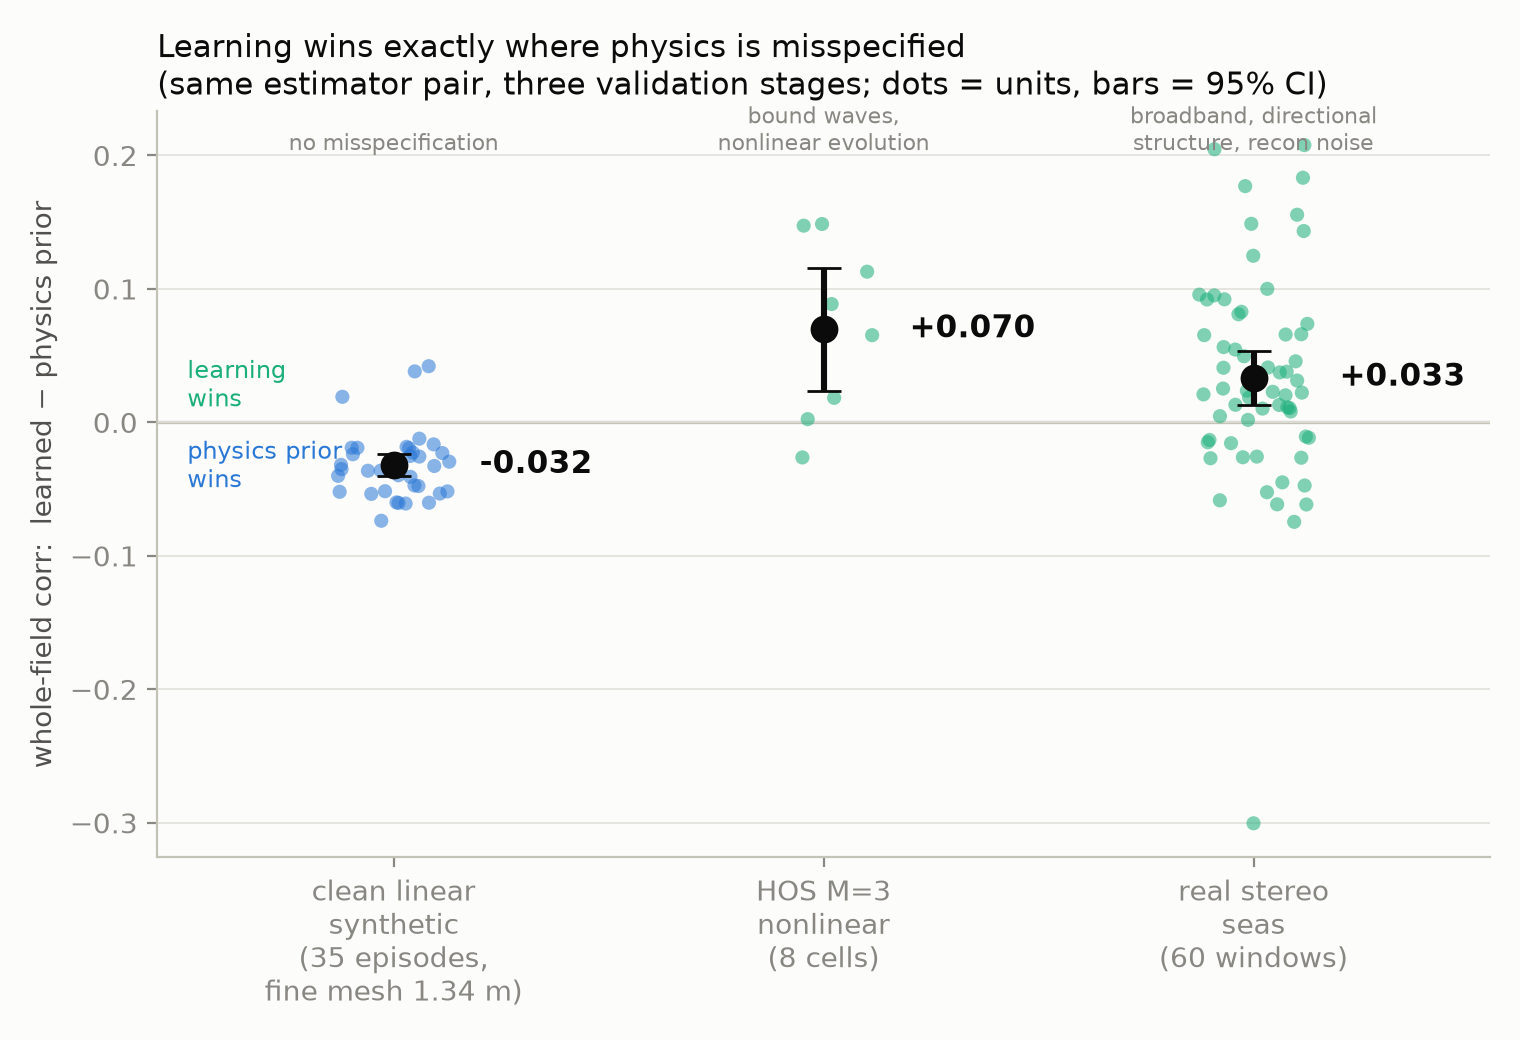
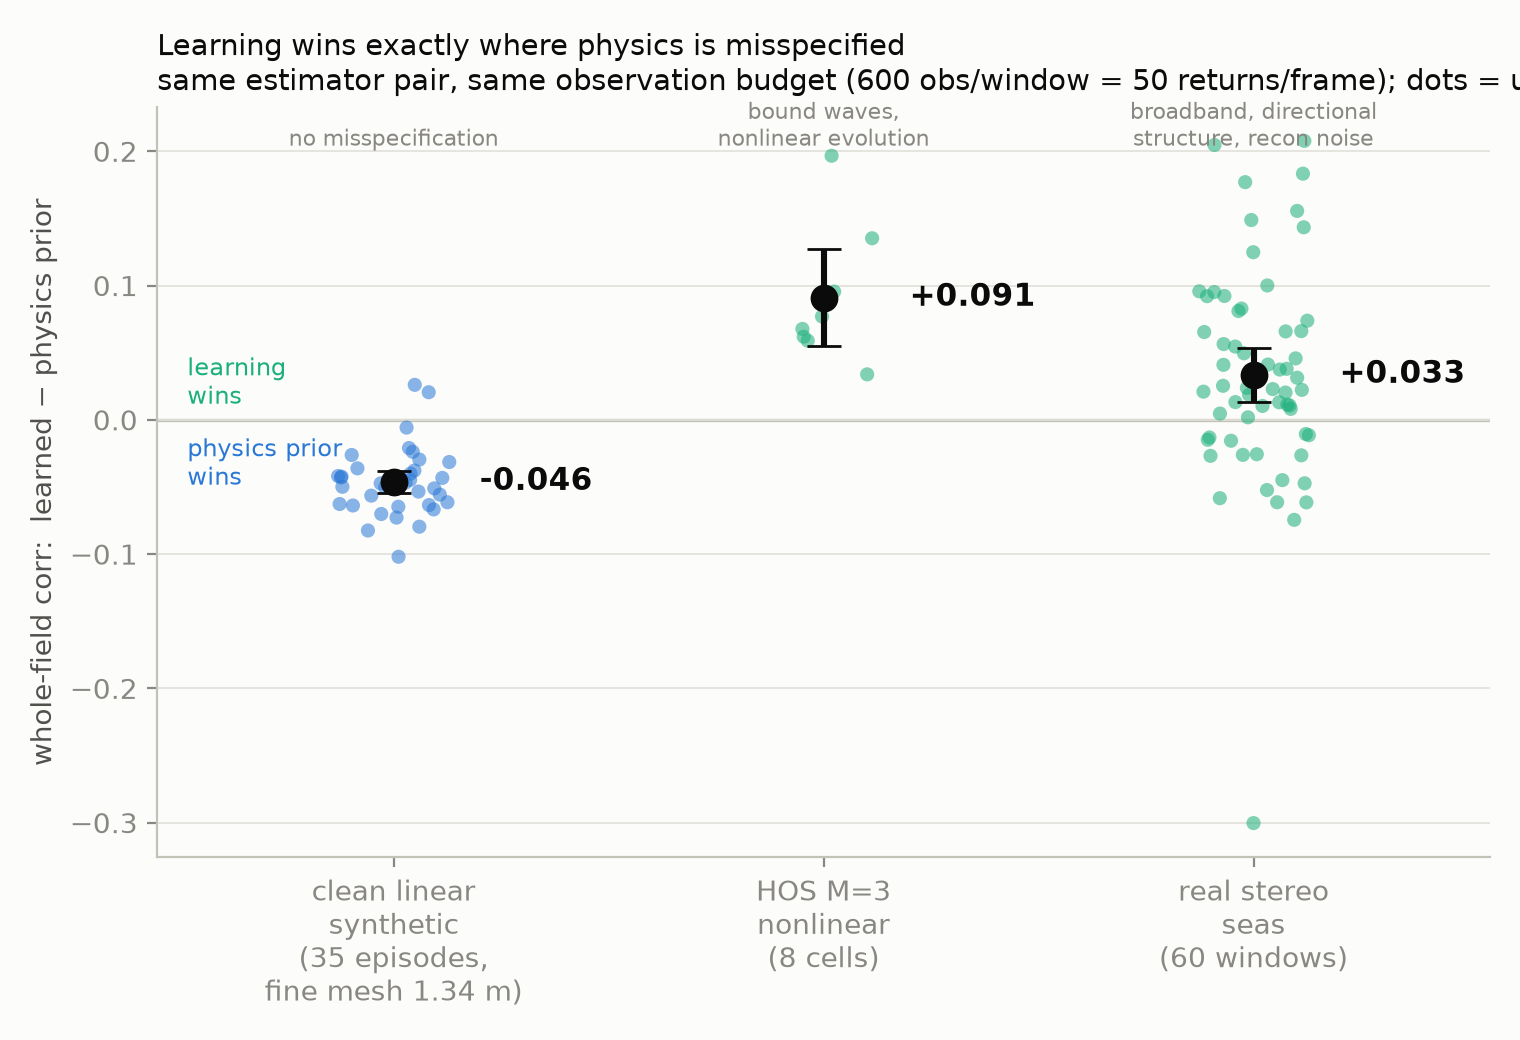
research(phd): [branch] ★기울기 3무대를 하나의 관측 예산(600점)으로 통일 — HOS도 희소에서 강해진다 (+0.070 -> +0.091, 8/8)
E-9 규약의 마지막 조각. 지금까지 3무대의 관측 예산이 서로 달랐다:
  깨끗한 선형 600점 / HOS 2000점 / 실측 600점(m_cap=600, 원래부터)
예산이 다르면 무대를 비교하는 게 아니라 예산을 비교하게 된다. HOS를 600점에서
재판정해 통일했다.

  HOS 무대 (8셀)      Δ(learned-hand)      t      learned 승
    2000점 (기존)      +0.0697 ± 0.0235   +2.97      7/8
    600점 (희소)       +0.0908 ± 0.0184   +4.93      8/8

  HOS 이득도 희소에서 강해진다. 페르소나 토론이 "서사의 무게중심을 HOS로
  옮기라"고 했는데, 그 무게중심이 이제 낙관 예산이 아니라 희소 예산 위에 선다.

★예산-일관 기울기 (전 무대 600점 = 50 반환/frame):
    깨끗한 선형  −0.0463 (t −10.6, learned 승 2/35)
    HOS M=3      +0.0908 (t  +4.9, learned 승 8/8)
    실측         +0.0334 (군집-강건 t +3.70, CI [+0.016,+0.051])
  중심 그림 재작도, 제목에 예산 명시.

■ 검토 2차 (Fable 크레딧 소진으로 메인이 직접 수행)
  - 문서 헤드라인 19개 전부 JSON 재도출 대조: 전원 일치.
  - E-10의 "개수 600 고정" 주장 검증: 네 팔 전부 정확히 600점 (최소=최대=600).
    개수/패턴 교란 없음 확인.
  - 관측 예산 상수 전수: 167(고정) / ceil(n_obs/12) 일치. A1_N_OBS 기본 2000 유지.
  - E-11 빔포밍 위상 규약이 추정기 design()과 동일(kx*x+ky*y-om*t).
  - E-10 gradient 축 순서 (ny,nx) 정합.
  - AST 검사: 구문 오류·미사용 import 없음.
  - d3_e2_mesh_audit: 그룹 판정을 v[0]에서 최악값으로 변경(혼합 그룹 대비) +
    mixed_within_group 필드 추가. 현재 혼합 그룹 0이라 기존 판정 불변(12/19).
  - 테스트 158 통과.

diff --git a/wavesplat/scripts/d3_gradient_d20_figs.py b/wavesplat/scripts/d3_gradient_d20_figs.py
@@ -53,10 +53,15 @@ def stage_deltas():
     # Not "adequate" for all 35: BF3_5comp (6 eps) still sits at 4.7 points per
     # wavelength on its shortest significant component.  Dropping those 6 gives
     # -0.030 (t -6.1), so the verdict does not rest on them.
+    # E-9 (PI directive, 2026-07-13): all three stages are quoted at ONE
+    # observation budget -- the sparse one the thesis actually assumes (600 obs
+    # per window = 50 returns/frame).  The real stage was already there
+    # (m_cap = 600); the other two are now re-quoted to match.  Comparing stages
+    # at different budgets would compare budgets, not seas.
     e3 = json.load(open(f'{OUT}/e3_clean_rejudge.json'))
-    clean = [e['delta'] for e in e3['episodes']['fine']]
+    clean = [e['delta'] for e in e3['episodes']['fine_sparse']]
     hos = [r['learned'] - r['hand'] for r in
-           json.load(open(f'{OUT}/a1_field_hos.json'))]
+           json.load(open(f'{OUT}/a1_field_hos_sparse600.json'))]
     real = [r['field_learned'] - r['field_hand'] for r in
             json.load(open(f'{OUT}/field_wide_eval.json'))]
     return [np.array(clean), np.array(hos), np.array(real)]
@@ -96,9 +101,10 @@ def fig_gradient():
                     ha='center', fontsize=8, color=C_MUT)
     ax.set_ylabel('whole-field corr:  learned $-$ physics prior')
     ax.set_title('Learning wins exactly where physics is misspecified\n'
-                 '(same estimator pair, three validation stages; '
-                 'dots = units, bars = 95% CI)',
-                 fontsize=11, color=C_INK, loc='left')
+                 'same estimator pair, same observation budget '
+                 '(600 obs/window = 50 returns/frame); '
+                 'dots = units, bars = 95% CI',
+                 fontsize=10.5, color=C_INK, loc='left')
     style(ax)
     fig.tight_layout()
     p = f'{OUT}/fig_gradient_2026-07-12.png'

diff --git a/wavesplat/scripts/d3_e2_mesh_audit.py b/wavesplat/scripts/d3_e2_mesh_audit.py
@@ -59,13 +59,20 @@ def main():
         vu = float(np.mean([r['var_under_resolved'] for r in v]))
         pk = float(np.mean([r['pts_per_lambda_peak'] for r in v]))
         pm = float(np.mean([r['pts_per_lambda'] for r in v]))
-        vd = v[0]['mesh_verdict']
+        # Take the WORST episode's verdict, not the first one's.  Wavelengths are
+        # seed-invariant today so every group is homogeneous, but reading v[0]
+        # would silently hide a bad episode the day that stops being true.
+        order = {mesh_adequacy.ADEQUATE: 0, mesh_adequacy.DEGRADED: 1,
+                 mesh_adequacy.INADEQUATE: 2}
+        vd = max((r['mesh_verdict'] for r in v), key=lambda x: order[x])
+        mixed = len({r['mesh_verdict'] for r in v}) > 1
         rows.append(dict(sea=sea, n_components=ncomp, n_episodes=len(v),
                          lambda_peak=lp, pts_per_lambda_peak=pk,
                          pts_per_lambda_min=pm, var_under_resolved=vu,
-                         verdict=vd))
+                         verdict=vd, mixed_within_group=mixed))
         print(f'{sea + "_" + str(ncomp) + "comp":<14} {len(v):3d} {lp:8.1f}m '
-              f'{pk:10.1f} {pm:11.1f} {100 * vu:7.0f}%  {vd}')
+              f'{pk:10.1f} {pm:11.1f} {100 * vu:7.0f}%  {vd}'
+              f'{"  [MIXED]" if mixed else ""}')
 
     res = dict(date='2026-07-13',
                prereg='docs/E2_MESH_AUDIT_prereg_2026-07-13.md',

diff --git a/wavesplat/scripts/d3_a1_field_hos.py b/wavesplat/scripts/d3_a1_field_hos.py
@@ -25,13 +25,19 @@ sys.path.insert(0, 'scripts')
 
 from d3_h7_hos_arena import (surface_snap, z_at, scan_hits, SCAN_REL,
                              SPINUP, NOISE)
-from d3_f1_hos_door1 import hos_run, sea_components, DT, FOV_H
-from d3_door1b_field_bias import R_MIN
+from d3_f1_hos_door1 import hos_run, sea_components, DT
+from d3_door1b_field_bias import R_MIN, FOV_H
 from d3_gpu_mmse import mmse_gpu
 from d3_prior_net_eval import get_net, net_gamma_mmse, DEVICE
 from d3_l1_s2head_train import SmultHead
 
 OUT = 'results/direction3/a1_field_hos.json'
+# E-9 (PI directive, 2026-07-13): the gradient's three stages must be compared at
+# ONE observation budget.  The real stage already runs at m_cap = 600/window and
+# the clean-linear stage is now quoted at 600, so HOS -- the only stage that holds
+# the observation operator fixed while the physics changes -- must be re-quoted
+# there too, or the gradient compares budgets rather than seas.
+N_OBS = int(os.environ.get('A1_N_OBS', 2000))
 SEEDS = [0, 1, 2, 3]
 HS_LIST = [1.2, 3.0]
 LEADS = [0.0, 2.0, 5.0, 8.0]
@@ -61,7 +67,7 @@ def run_cell(seed, Hs, net, head, rng):
     take = []
     for j in range(12):
         idx = np.where(b == j)[0]
-        k = min(len(idx), 167)
+        k = min(len(idx), max(-(-N_OBS // 12), 1))
         if k:
             take.append(rng.choice(idx, k, replace=False))
     sel = np.concatenate(take)
